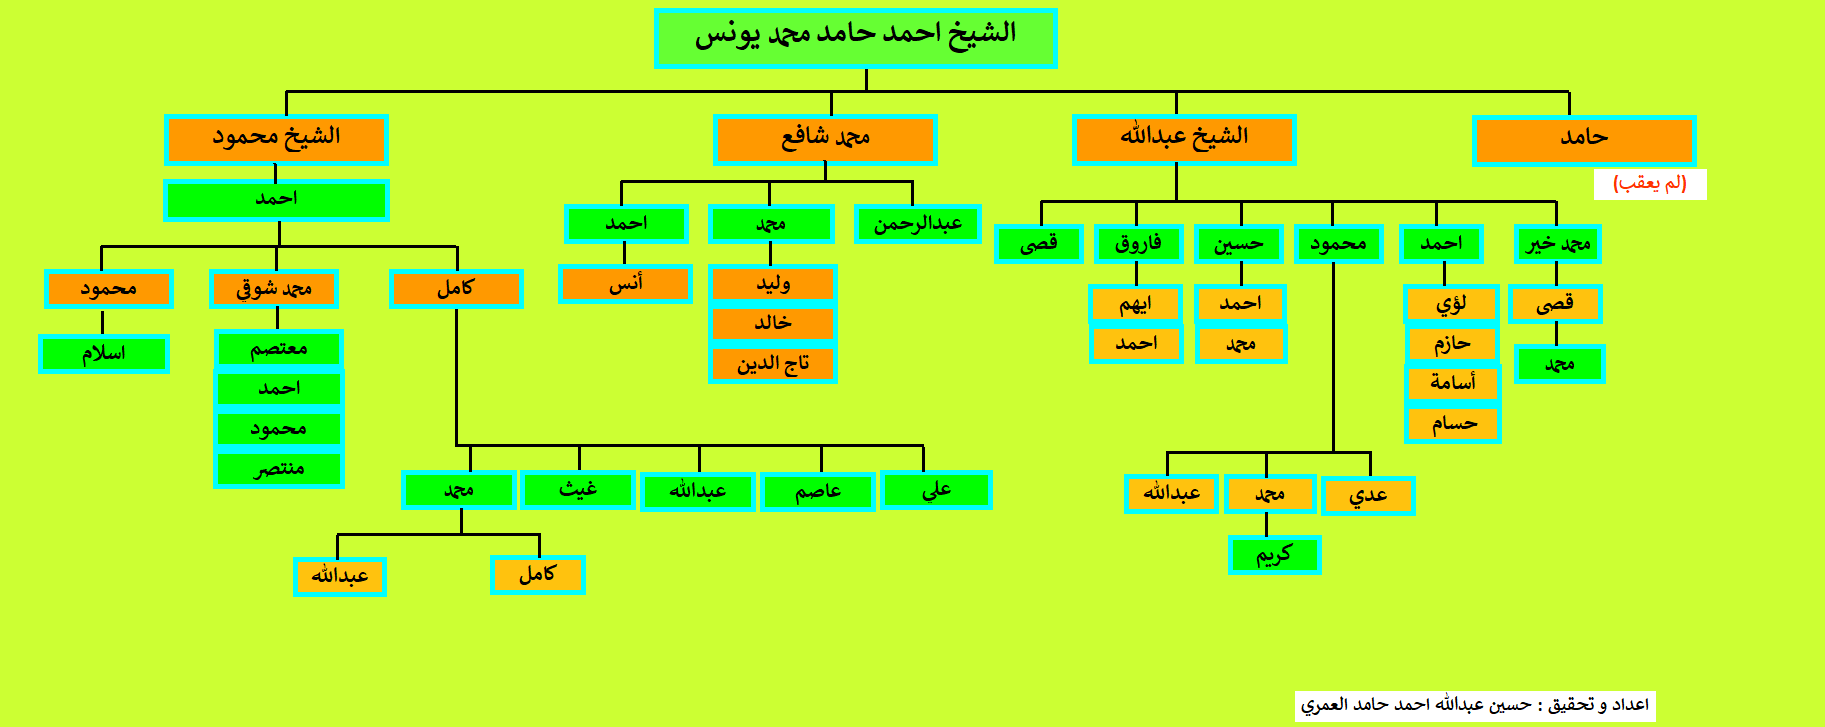
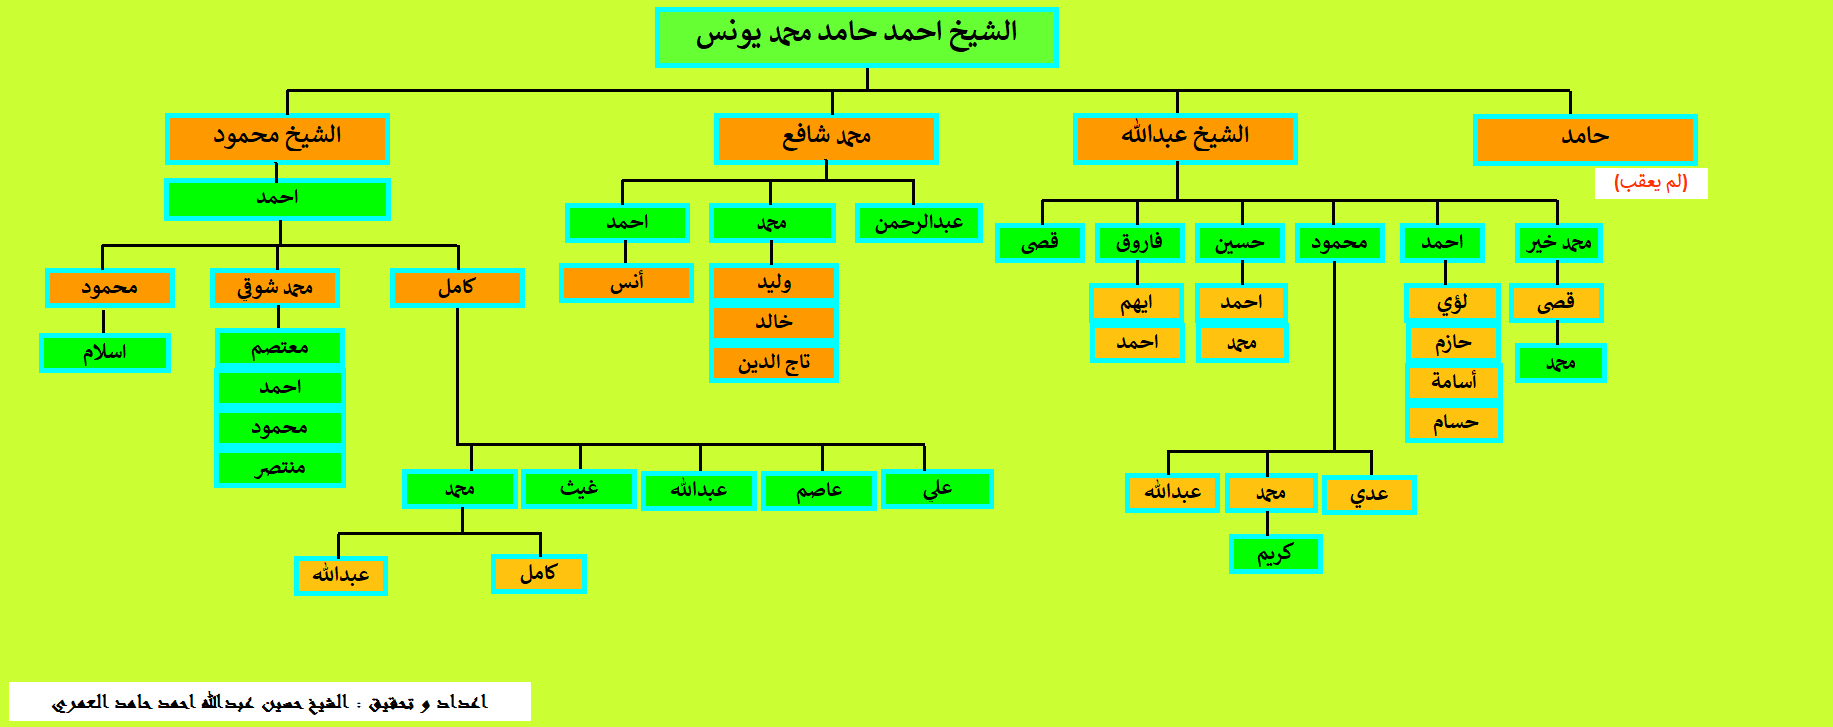
update

diff --git a/ibraheem-ben ibraheem.html b/ibraheem-ben ibraheem.html
@@ -30,7 +30,7 @@ function FP_getObjectByID(id,o) {//v1.0
 </script>
 </head>
 
-<body onload="FP_preloadImgs(/*url*/'button1774.gif',/*url*/'button1775.gif')" style="background-color: #DEFF2F">
+<body onload="FP_preloadImgs(/*url*/'button1774.gif',/*url*/'button1775.gif')" style="background-color: #CCFF33">
 
 <div id="layer1" style="position: absolute; width: 114px; height: 39px; z-index: 1; left: 10px; top: 15px">
 	<a href="index.html">
